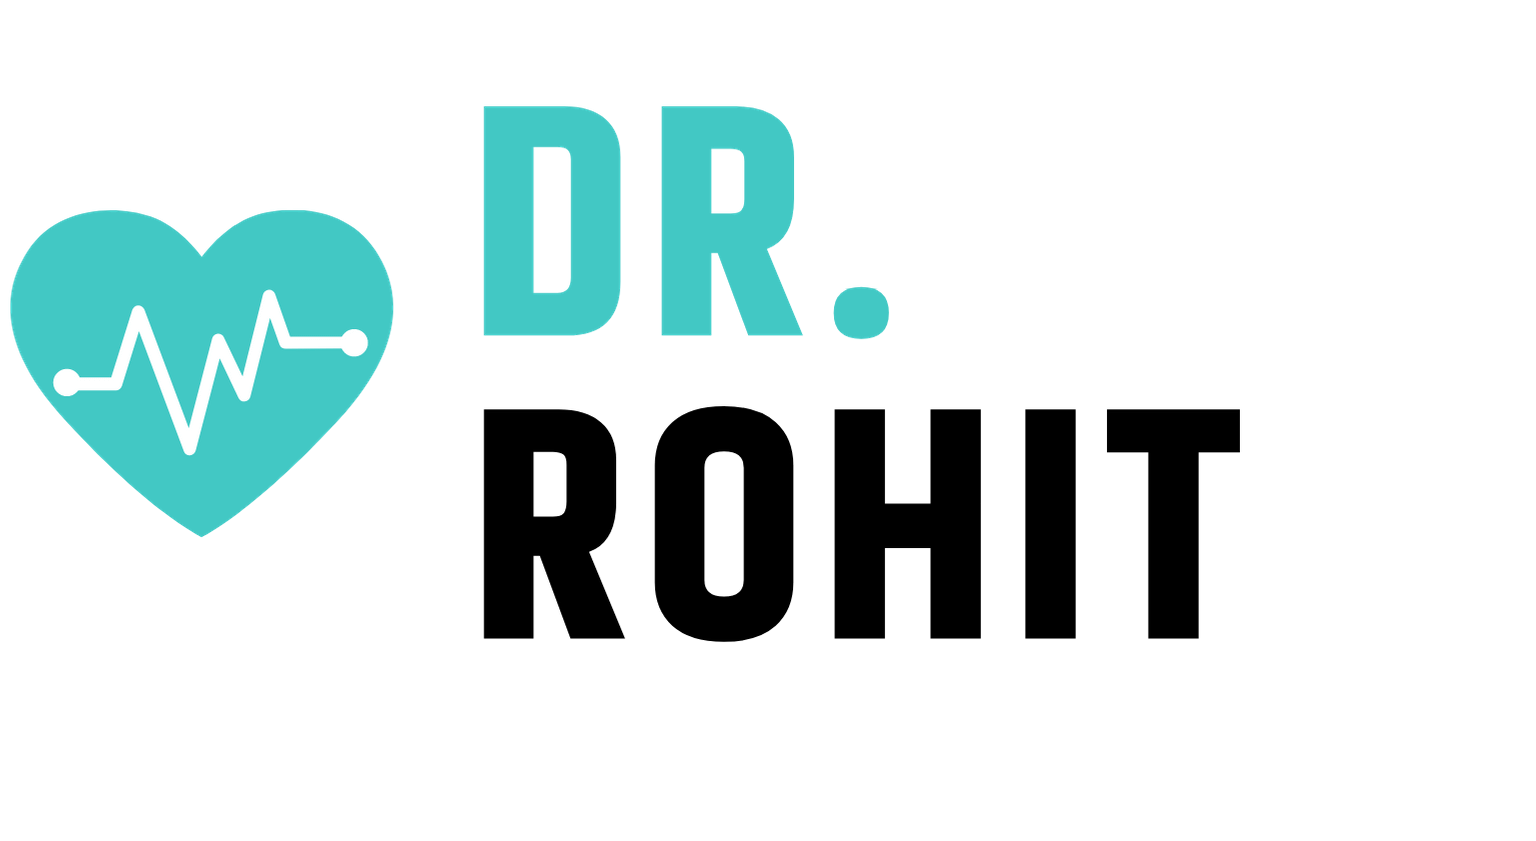
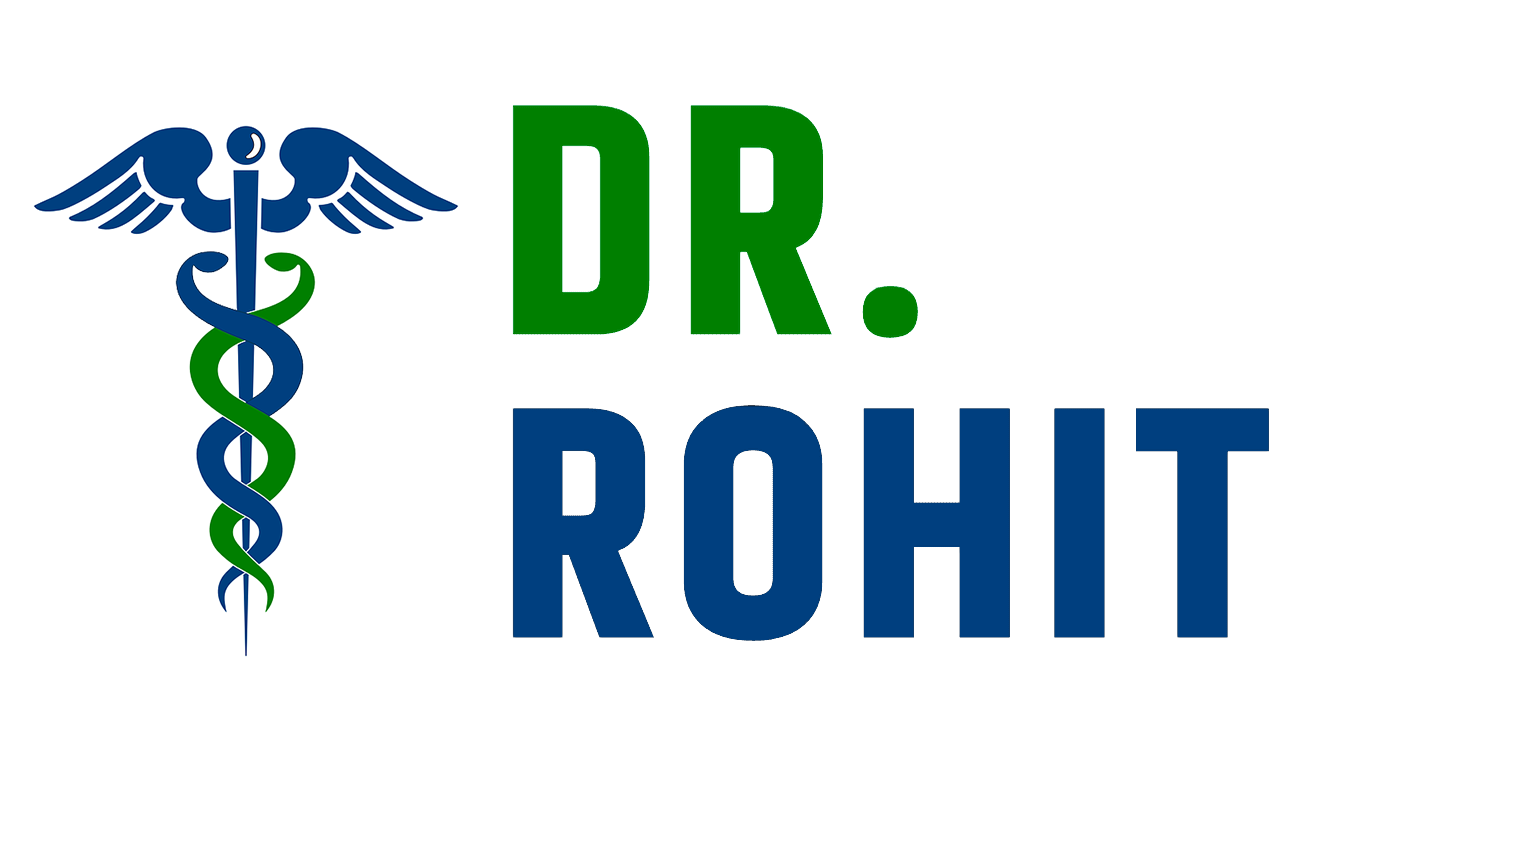
6 pmm office commit

Changed region(s): [[0.0, 0.1237, 0.5938, 0.742], [0.3125, 0.4637, 0.8438, 0.7729]]

diff --git a/index.html b/index.html
@@ -99,16 +99,15 @@
             <div class="row justify-content-between align-items-center">
                 <div class="col-md-6 col-lg-6">
                     <div class="about_us_img">
-                        <img src="img/top_service.png" alt="">
+                        <img src="img/radiology.png" alt="">
                     </div>
                 </div>
                 <div class="col-md-6 col-lg-5">
                     <div class="about_us_text">
                         <h2>About us</h2>
-                        <p>Patient care and tailored clinical Interventional Radiology(IR) approach is an elemental component of his daily practice.
-                            Treating and diagnosing various head to toe diseases related to interventional radiology with minimally invasive technique under image guidance.
-                            Key interest in varicose veins, uterine fibroid, prostate enlargement, chronic liver disease intervention, Bleeding emergency, tumour – embolization / ablation and various interventional procedures</p>
+                        <p id="about">Patient care and tailored clinical Interventional Radiology(IR) approach is an elemental component of his daily practice.Treating and diagnosing various head to toe diseases related to interventional radiology with minimally invasive technique under image guidance.Key interest in varicose veins, uterine fibroid, prostate enlargement, chronic liver disease intervention, Bleeding emergency, tumour – embolization / ablation and various interventional procedures</p>
                         <a class="btn_2 " href="https://www.practo.com/bangalore/doctor/dr-rohit-madhurkar-radiologist">learn more</a>
+                       <!-- 
                         <div class="banner_item">
                             <div class="single_item">
                                 <img src="img/icon/banner_1.svg" alt="">
@@ -123,6 +122,8 @@
                                 <h5>Qualfied</h5>
                             </div>
                         </div>
+
+-->
                     </div>
                 </div>
             </div>
@@ -141,12 +142,13 @@
                 </div>
             </div>
             <div class="row justify-content-between align-items-center">
+                <div class="col-lg-1"></div>
                 <div class="col-lg-5 col-sm-12">
                     <div class="single_feature">
                         <div class="single_feature_part">
                             <span class="single_feature_icon"><img src="img/icon/feature_1.svg" alt=""></span>
                             <h4>Harsha Patil</h4>
-                            <p>My experience at BGS Hospital with DR Rohit Madhurkar was superior and well above medical treatment standards. 
+                            <p id="test">My experience at BGS Hospital with DR Rohit Madhurkar was superior and well above medical treatment standards. 
                                 The physicians, nurses and staff successfully eradicated with unbelievable care and compassion. 
                                 Their attention to ensuring my father well-being was exceptional. 
                                 What amazes me about Dr Rohit Madhurkar is his passion towards making people aware of available advance treatments are greatly appreciated. 
@@ -165,6 +167,8 @@
                         <img src="img/testimonals.svg" alt="">
                     </div>
             </div>
+            <!--for proper positioning of svg logo-->
+            <div class="col-lg-1"></div>
             </div>
         </div>
     </section>
@@ -279,7 +283,7 @@
                 </div>
                 <div class="col-lg-5 col-md-6">
                     <div class="reservation_img">
-                        <img src="img/banner_img.png" alt="" class="reservation_img_iner">
+                        <img src="img/dr.rohit.png" alt="" class="reservation_img_iner">
                     </div>
                 </div>
             </div>
@@ -299,10 +303,16 @@
                 </div>
             </div>
             <!-- SnapWidget -->
+<!-- SnapWidget -->
+<script src="https://snapwidget.com/js/snapwidget.js"></script>
+<iframe src="https://snapwidget.com/embed/794891" class="snapwidget-widget" allowtransparency="true" frameborder="0" scrolling="no" style="border:none; overflow:hidden;  width:100%; "></iframe>
+
+<!--
+
 <script src="https://snapwidget.com/js/snapwidget.js"></script>
 <iframe src="https://snapwidget.com/embed/793994" class="snapwidget-widget" allowtransparency="true" frameborder="0" scrolling="no" style="border:none; overflow:hidden;  width:100%; "></iframe>
             
-        </div>
+      -->  </div>
     </section>
     <!--::blog_part end::-->
 

diff --git a/css/style.css b/css/style.css
@@ -1,9 +1,18 @@
 @import url("https://fonts.googleapis.com/css?family=Roboto:300,400,500,700&display=swap");
+#about 
+{
+  text-align: justify;
+  text-justify: inter-word;
+}
+#test{
+  text-align: justify;
+  text-justify: inter-word;
+}
 /* line 1, Dr. Rohit Madhurkar website by www.vaibhavsoni.tech/_extends.scss */
 .btn_1, .btn_2, .regervation_part .btn_2:hover {
-  background-image: -webkit-linear-gradient(to right, #37c2ad, #0070fa, #37c2ad);
-  background-image: -o-linear-gradient(to right, #37c2ad, #0070fa, #37c2ad);
-  background-image: linear-gradient(to right, #37c2ad, #0070fa, #37c2ad);
+  background-image: -webkit-linear-gradient(to right, #008000, #003d80, #008000);
+  background-image: -o-linear-gradient(to right, #008000, #003d80, #008000);
+  background-image: linear-gradient(to right, #008000, #003d80, #008000);
 }
 
 /* line 6, Dr. Rohit Madhurkar website by www.vaibhavsoni.tech/_extends.scss */
@@ -2845,6 +2854,8 @@ ul {
 .about_us .about_us_text ul li span {
   margin-right: 10px;
   color: #3fbb96;
+  text-align: justify;
+  justify-content: inter-word;
   position: absolute;
   top: 16px;
   left: 0;
@@ -2865,7 +2876,9 @@ ul {
 /* line 126, Dr. Rohit Madhurkar website by www.vaibhavsoni.tech/_about_us.scss */
 .banner_item {
   display: flex;
-  justify-content: space-between;
+  text-align: justify;
+  justify-content: inter-word;
+  
 }
 
 /* line 130, Dr. Rohit Madhurkar website by www.vaibhavsoni.tech/_about_us.scss */
